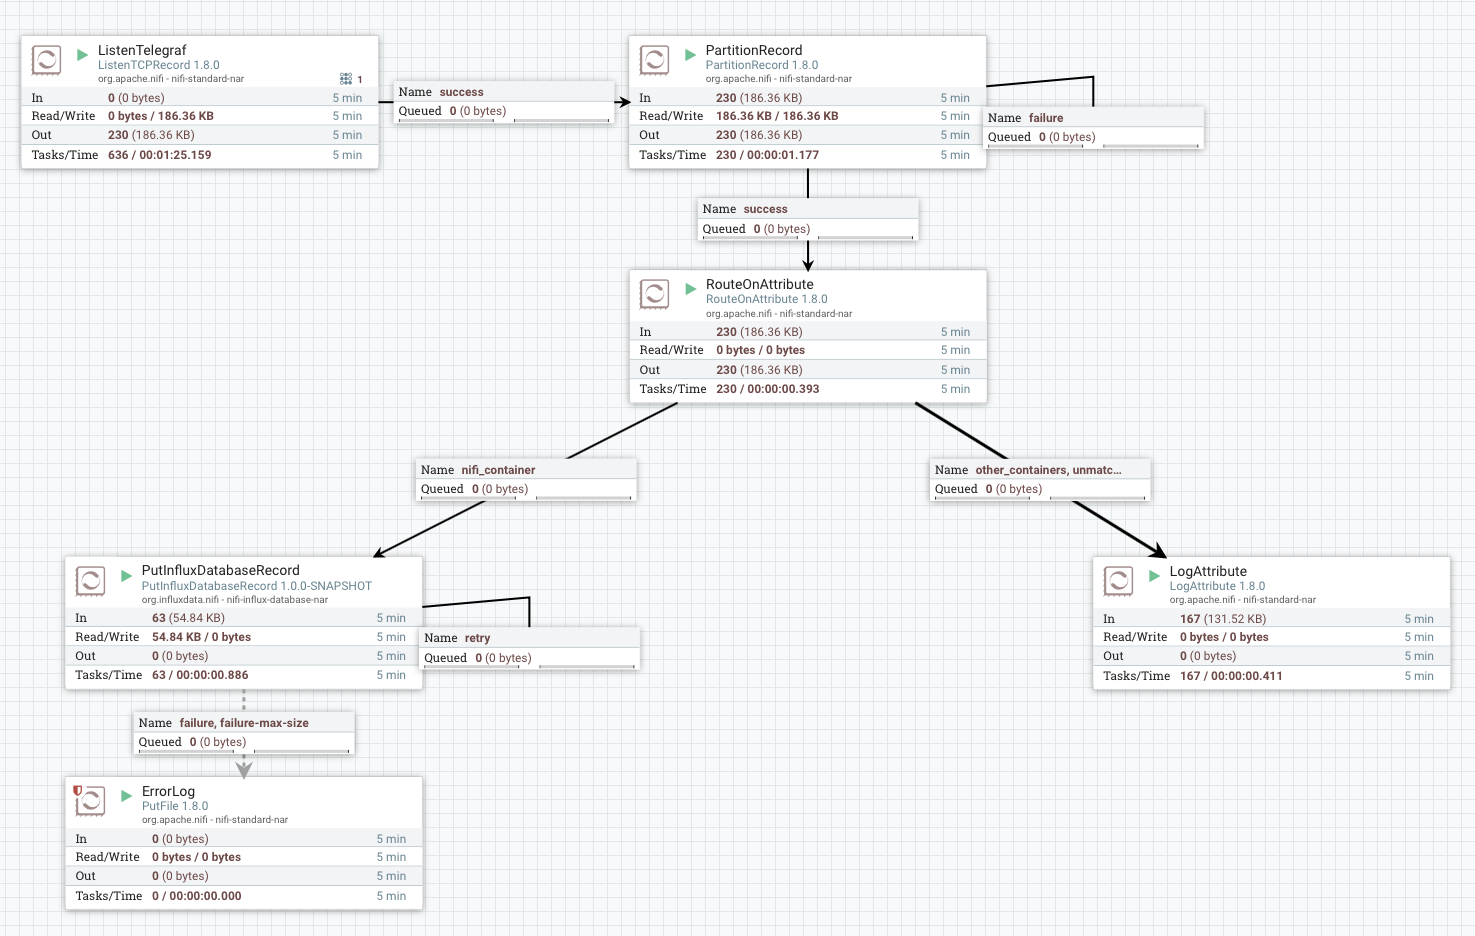
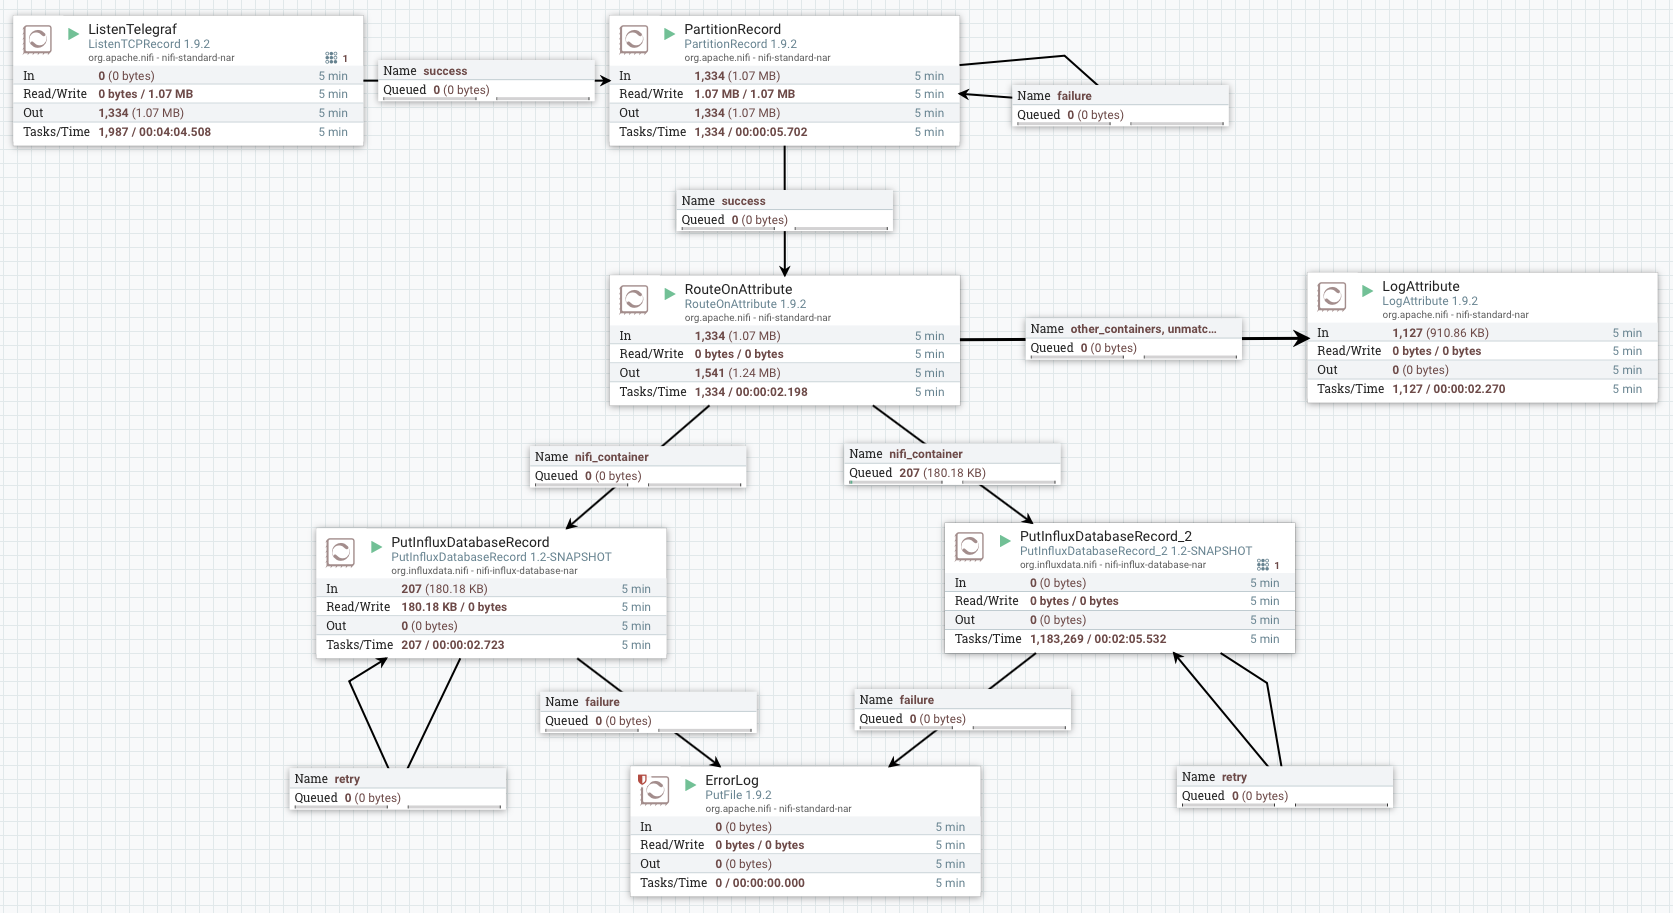
#23: Added documentation for PutInfluxDatabaseRecord_2

Changed region(s): [[0.0, 0.0, 0.998, 1.0], [0.6861, 0.828, 0.842, 0.8894], [0.9356, 0.5827, 0.998, 0.644]]

diff --git a/nifi-influx-database-processors/src/main/java/org/influxdata/nifi/processors/PutInfluxDatabaseRecord_2.java b/nifi-influx-database-processors/src/main/java/org/influxdata/nifi/processors/PutInfluxDatabaseRecord_2.java
@@ -82,6 +82,9 @@ public class PutInfluxDatabaseRecord_2 extends AbstractInfluxDatabaseProcessor_2
         propertyDescriptors.add(BUCKET);
         propertyDescriptors.add(ORG);
 
+        propertyDescriptors.add(ENABLE_GZIP);
+        propertyDescriptors.add(LOG_LEVEL);
+
         propertyDescriptors.add(MEASUREMENT);
 
         propertyDescriptors.add(TAGS);
@@ -95,9 +98,6 @@ public class PutInfluxDatabaseRecord_2 extends AbstractInfluxDatabaseProcessor_2
 
         propertyDescriptors.add(COMPLEX_FIELD_BEHAVIOR);
         propertyDescriptors.add(NULL_VALUE_BEHAVIOR);
-
-        propertyDescriptors.add(ENABLE_GZIP);
-        propertyDescriptors.add(LOG_LEVEL);
 
         propertyDescriptors.add(MAX_RECORDS_SIZE);
 

diff --git a/README.md b/README.md
@@ -140,6 +140,71 @@ Batching is useful when the flow file contains large number of records. Records 
 | failure | All FlowFiles that cannot be written to InfluxDB are routed to this relationship |
 
 
+### PutInfluxDatabaseRecord_2
+
+Uses a specified RecordReader to write the content of a FlowFile into InfluxDB 2.0 database.
+
+#### Features
+
+* Input can be any built-in or custom implemented NiFi RecordReader (json, avro, csv, `InfluxLineProtocolReader`...)
+* Configurable mapping between NiFi Records and InfluxDB measurement, field and tags
+* Configurable timestamp precision 
+* Reusable connection settings (InfluxDB url, password) for more processors via `InfluxDatabaseService_2` controller
+* Advanced InfluxDB client settings
+  * Gzip compression
+  
+#### Mapping Records to InfluxDB Data Point
+
+##### Measurement
+The value is determined from the field in the Record Schema. If the field is not found in the schema then is used the value of `Measurement property`. 
+Any data type is converted into a String type and used as the value.
+
+##### Tags
+The name of the field in the Record Schema is used as the key of the Tag. The value of the field is used as the value of the Tag.
+Any data type is converted into a String type and used as the Tag value [see also handling complex types](#behavior-of-handling-complex-types-for-tags-and-fields).
+
+##### Timestamp
+The value is determined from the field in the Record Schema. If the field is not found in the schema 
+or field has not defined value the timestamp is not specified for the Data Point. 
+The precision for the supplied time value is determined from the property `Timestamp precision`.
+
+#### Behavior of handling complex types for Tags and Fields
+
+The Apache NiFi complex Record fields are handled by different strategy:
+- `Map` - keys are mapped as keys of Tags or Fields, values are mapped as values of Tags or Fields
+- `Choice` - for the value is used the compatible type from Choice definition
+- `Array`  - based on property the `Complex Field Behavior`
+- `Record` - based on property the `Complex Field Behavior`
+
+#### Properties
+
+| Property | Description |
+| --- | --- |
+| **Record Reader** | Specifies the Controller Service to use for parsing incoming data and determining the data's schema |
+| **InfluxDB Controller Service** | A controller service that provides connection to InfluxDB |
+| **Bucket** | Specifies the destination bucket for writes |
+| **Organization** | Specifies the destination organization for writes |
+| **Enable gzip compression** | Enable gzip compression for InfluxDB http request body |
+| **Log Level** | Controls the level of logging for the REST layer of InfluxDB client |
+| **Measurement** | The name of the measurement. If the Record contains a field with measurement property value, then value of the Record field is use as InfluxDB measurement |
+| Tags | A comma-separated list of record fields stored in InfluxDB as 'tag' |
+| Missing Tag Behavior | If the specified tag is not present in the document, this property specifies how to handle the situation. |
+| **Fields** | A comma-separated list of record fields stored in InfluxDB as 'field'. At least one field must be defined |
+| Missing Field Behavior | If the specified field is not present in the document, this property specifies how to handle the situation |
+| Timestamp field | A name of the record field that used as a 'timestamp' |
+| **Timestamp precision** | The timestamp precision is ignore when the 'Timestamp field' value is 'java.util.Date' |
+| **Complex Field Behavior** | Indicates how to handle complex fields, i.e. fields that do not have a primitive value |
+| **Null Values Behavior** | Indicates how to handle null fields, i.e. fields that do not have a defined value |
+| **Max size of records** | Maximum size of records allowed to be posted in one batch |
+
+#### Relationships
+
+| Property | Description |
+| --- | --- |
+| success | All FlowFiles that are written into InfluxDB are routed to this relationship |
+| retry | A FlowFile is routed to this relationship if the database cannot be updated but attempting the operation again may succeed. |
+| failure | All FlowFiles that cannot be written to InfluxDB are routed to this relationship |
+
 ### InfluxLineProtocolReader
 
 Parses the InfluxDB Line Protocol into NiFi Record. This allows processing, filtering and
@@ -385,6 +450,7 @@ The metrics from monitoring Docker containers are filtered in the NiFi. NiFi con
 1. **PartitionRecord** - Group incoming records by container name  
 1. **RouteOnAttribute** - Routes incoming container metrics: NiFi container metrics are routed to `PutInfluxDatabaseRecord` other metrics to `LogAttribute`
 1. **PutInfluxDatabaseRecord** - Writes NiFi container metrics to the InfluxDB
+1. **PutInfluxDatabaseRecord_2** - Writes NiFi container metrics to the InfluxDB 2.0
 1. **LogAttribute** - Log metrics that aren't written to the InfluxDB
 
 #### Result
